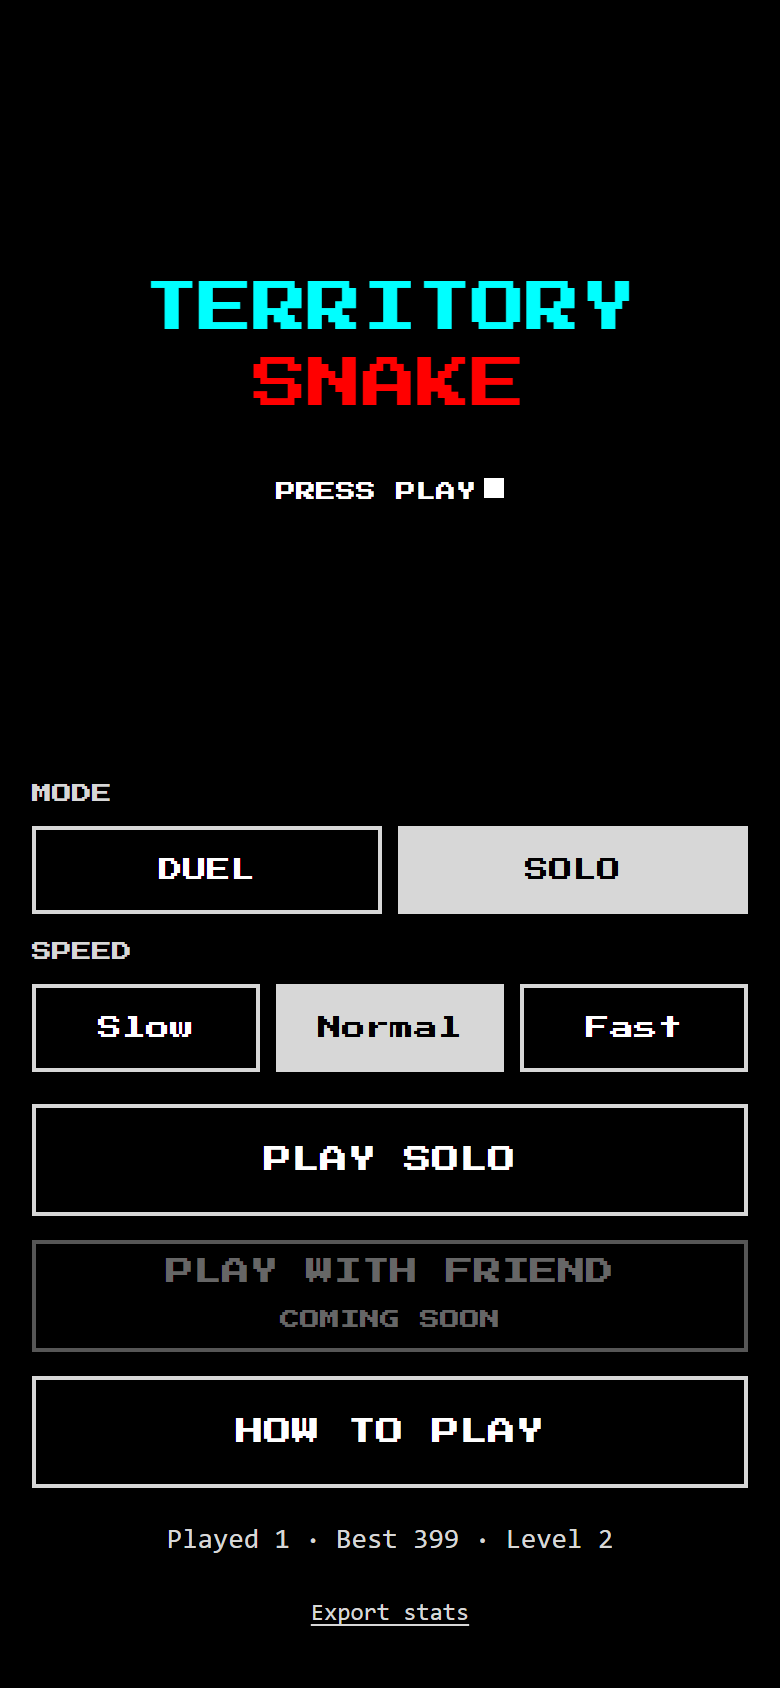
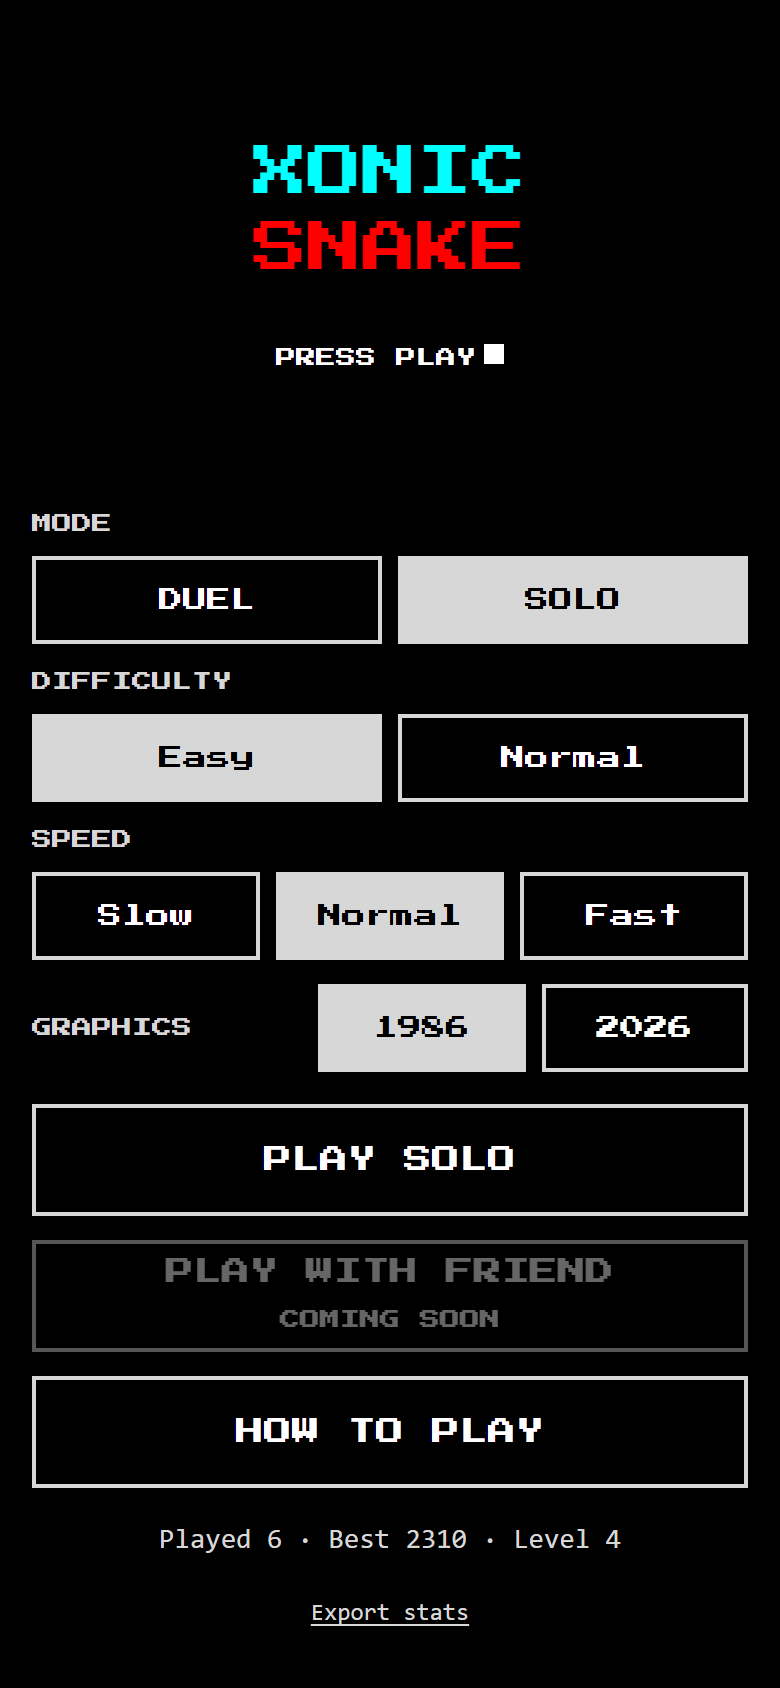
How to play Solo and README: difficulty; Solo menu screenshots in both looks
How to play Solo footer: '3 lives, no time limit. Easy: fewer, slower
balls. ...' (fits 320x568 in both looks). README modes: Normal N + 1
balls every tick, Easy N balls every other tick, separate records.

diff --git a/src/ui/HowToScreen.tsx b/src/ui/HowToScreen.tsx
@@ -72,7 +72,7 @@ const SOLO_STEPS: Step[] = [
 
 const FOOTER: Record<Mode, string> = {
   duel: 'You are BLUE. Most territory after 2 minutes wins.',
-  solo: 'You have 3 lives and no time limit. Your snake moves by itself — just steer.',
+  solo: '3 lives, no time limit. Easy: fewer, slower balls. Your snake moves by itself — just steer.',
 }
 
 export function HowToScreen({ mode, onDone, doneLabel, theme = '1986' }: { mode: Mode; onDone: () => void; doneLabel: string; theme?: Theme }) {

diff --git a/README.md b/README.md
@@ -9,7 +9,7 @@
 A real-time territory game for the mobile browser, with two modes:
 
 - **Duel** — you against an AI bot (Easy or Normal) on a 15×15 grid; single-player, there is no human opponent. Leave your territory to draw a trail, come back to close the loop and capture everything inside, and cut the bot's trail before it cuts yours. Both snakes move at the same time, one cell per tick. A match lasts two minutes.
-- **Solo** — one snake on a 20×20 field whose frame is your land. Balls bounce around the empty part; close a loop and every area without a ball becomes yours. A ball touching your trail costs one of three lives. Capture 75% to reach the next level, with one more ball.
+- **Solo** — one snake on a 20×20 field whose frame is your land. Balls bounce around the empty part; close a loop and every area without a ball becomes yours. A ball touching your trail costs one of three lives. Capture 75% to reach the next level, with one more ball. Two difficulties: Normal has N + 1 balls on level N, moving every tick; Easy has N balls, moving every other tick (records are kept separately).
 
 In both modes the snake moves on its own; you only steer.
 
@@ -37,7 +37,7 @@ npm run build     # static build in dist/ (relative paths, deployable to any sub
 npm run preview   # serve the build locally
 ```
 
-Controls: swipe on the board or tap the D-pad on phones; arrow keys or WASD on desktop. Space or P pauses (hiding the tab pauses too). The menu picks the mode (Duel / Solo), the bot for Duel (Easy / Normal) and the speed (Slow 400 ms, Normal 280 ms, Fast 180 ms per tick).
+Controls: swipe on the board or tap the D-pad on phones; arrow keys or WASD on desktop. Space or P pauses (hiding the tab pauses too). The menu picks the mode (Duel / Solo), the difficulty (Easy / Normal, remembered per mode; for Duel it is the bot) and the speed (Slow 400 ms, Normal 280 ms, Fast 180 ms per tick).
 
 ## Tests and benchmark
 
